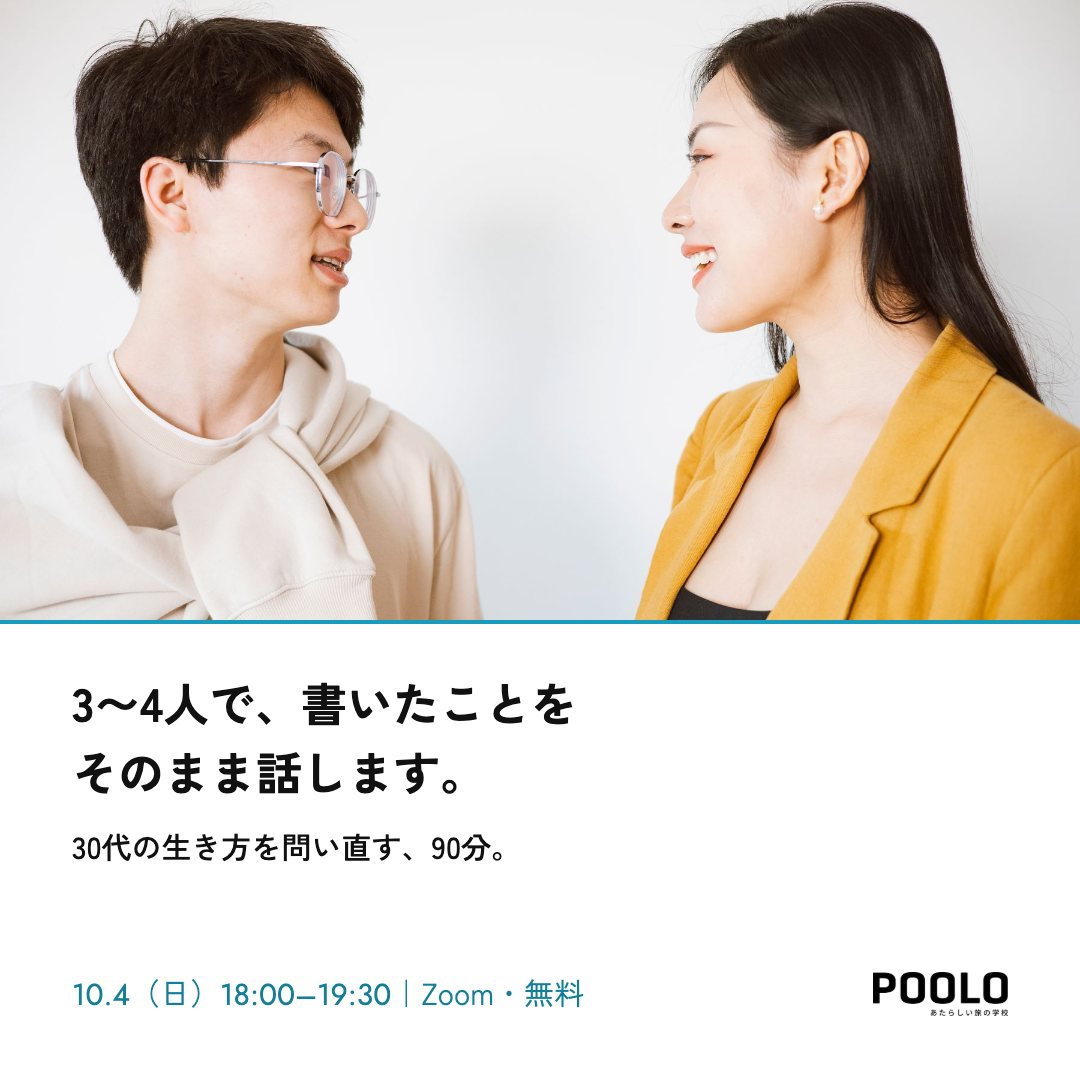
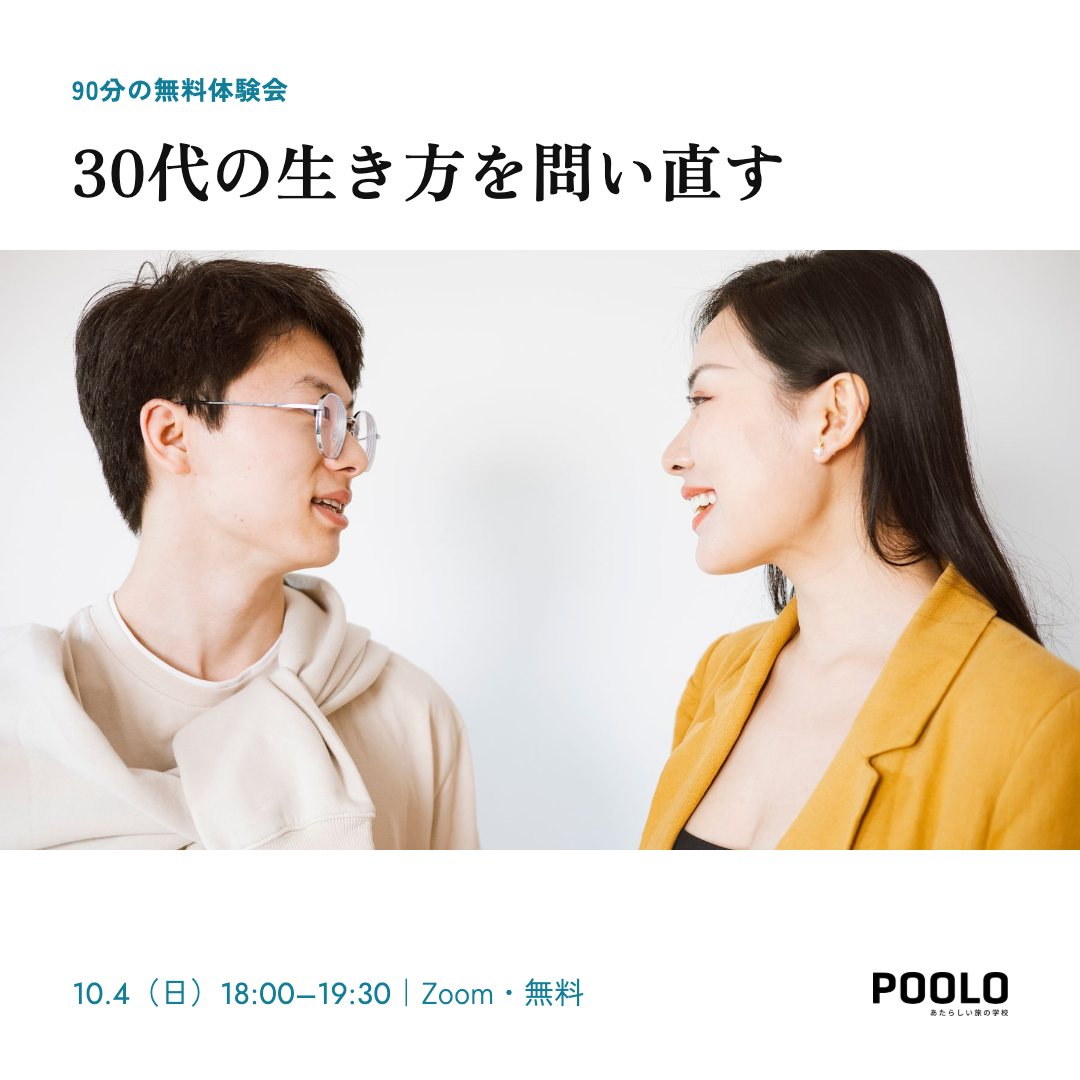
撮影ディレクション：コピーを統一し、組み方33パターンに

diff --git a/photo-direction-260928/index.html b/photo-direction-260928/index.html
@@ -37,13 +37,13 @@ th{width:11em;font-weight:700}
 @media (max-width:640px){.photos{grid-template-columns:1fr 1fr}.photos .ph:nth-child(3){display:none}.head{flex-wrap:wrap}.tag{margin-left:0}.credits ul{columns:2}}
 .mock{display:flex;flex-direction:column;gap:14px;margin-top:22px;padding:20px;background:#F3F8FA}.mimgs{display:grid;grid-template-columns:repeat(3,1fr);gap:10px}
 .mock img{width:100%;height:auto;display:block;border:1px solid #DCE5E8}
-.mock p{margin:0 0 8px;font-size:15px}.mock .mk{font-weight:700;color:#0F7590}
+.mock p{margin:0;font-size:15px}.mock .mk{font-weight:700;color:#0F7590}figure{margin:0}figure img{width:100%;height:auto;display:block;border:1px solid #DCE5E8}figcaption{font-size:13.5px;color:#56676E;margin-top:6px;line-height:1.5}
 @media (max-width:640px){.mimgs{grid-template-columns:1fr 1fr}}
 </style></head><body><div class="wrap">
 <p class="brand">POOLO by TABIPPO</p>
 <h1>体験会広告の写真撮影で、<br>撮ってほしいカット</h1>
 <p class="lead">今回の写真は、POOLOの体験会のMeta広告（Instagram・Facebook）に使います。正方形のフィードと、縦長のストーリーズの両方です。</p>
-<p class="lead">載せている写真は、どれも素材サイトから選んだイメージです。構図や距離感の参考にしてください。カットごとに、上の3枚の写真をそれぞれ使ったバナーの試作を3枚ずつ付けました。同じカットでも、写真の大きさや置き方を1枚ずつ変えています。コピーは30代の体験会のもので、日付と写真は仮です。</p>
+<p class="lead">載せている写真は、どれも素材サイトから選んだイメージです。構図や距離感の参考にしてください。カットごとに、上の3枚の写真をそれぞれ使ったバナーの試作を付けました。写真の大きさや置き方を1枚ずつ変えているので、同じ写真がどんな形の広告になるかを見比べてください。コピーは「30代の生き方を問い直す」にそろえ、日付と写真は仮です。</p>
 <div class="three">
 <div><b>イベントだと分かる</b><p>書く、話す、聞く。何をしている場なのかが写っていること。</p></div>
 <div><b>人が入っている</b><p>顔が見える距離で。30代向けの広告では、人の表情を出したものがいちばん反応がよかったです。</p></div>
@@ -61,39 +61,42 @@ th{width:11em;font-weight:700}
 <div class="head"><span class="num">1</span><div><h3>1人の表情</h3><p class="sub">話している途中の顔</p></div><span class="tag">段取りが必要</span></div>
 <p class="body">話している最中の顔を撮ります。笑顔を作ってもらうより、話しながら表情が動いた瞬間を狙います。無地の壁か窓の前に立ってもらい、頭の上か横に写真の1/3ほど余白を残してください。年代と性別を変えて5〜6人。</p>
 <div class="photos"><a class="ph" href="https://unsplash.com/photos/two-women-sitting-on-a-couch-playing-a-video-game-M6dNloG4jSU" target="_blank" rel="noopener"><img src="images/cut01-1.jpg" width="800" height="535" alt="話している途中の顔のイメージ"></a><a class="ph" href="https://unsplash.com/photos/man-using-earbuds-EMD33o0Ghy8" target="_blank" rel="noopener"><img src="images/cut01-2.jpg" width="800" height="533" alt="話している途中の顔のイメージ"></a><a class="ph" href="https://unsplash.com/photos/a-woman-looking-up-at-something-in-the-air-Czjq84pDm8o" target="_blank" rel="noopener"><img src="images/cut01-3.jpg" width="800" height="530" alt="話している途中の顔のイメージ"></a></div>
-<div class="mock"><div class="mimgs"><img src="images/banner-c1-1.jpg" width="1080" height="1080" alt="カット1のバナー試作1"><img src="images/banner-c1-2.jpg" width="1080" height="1080" alt="カット1のバナー試作2"><img src="images/banner-c1-3.jpg" width="1080" height="1080" alt="カット1のバナー試作3"></div><div><p class="mk">バナーにすると</p><p>写真を上の6割に置き、下の白地に明朝の一文を入れます。文字は写真に重ねません。そのため、写真の下のほうに顔がかからない構図がほしいです。</p><p class="ad">組み方の参考にした広告：<a href="https://www.facebook.com/ads/library/?id=830680203436028" target="_blank" rel="noopener">新居浜市 移住体験ツアー</a></p></div></div></section><section class="cut" id="cut2">
+<div class="mock"><p class="mk">バナーにすると</p><div class="mimgs"><figure><img src="images/banner-c1-1.jpg" width="1080" height="1080" alt="写真を上6割、文字は下"><figcaption>写真を上6割、文字は下</figcaption></figure><figure><img src="images/banner-c1-2.jpg" width="1080" height="1080" alt="写真の横に縦書き"><figcaption>写真の横に縦書き</figcaption></figure><figure><img src="images/banner-c1-3.jpg" width="1080" height="1080" alt="写真を大きく、文字は細い帯"><figcaption>写真を大きく、文字は細い帯</figcaption></figure></div><p class="ad">組み方の参考にした広告：<a href="https://www.facebook.com/ads/library/?id=830680203436028" target="_blank" rel="noopener">新居浜市 移住体験ツアー</a></p></div></section><section class="cut" id="cut2">
 <div class="head"><span class="num">2</span><div><h3>考えている表情</h3><p class="sub">手元から顔を上げた瞬間</p></div><span class="tag">本番中に撮れる</span></div>
 <p class="body">ワークシートに書いている途中で、ペンを持ったまま少し上を見る瞬間です。問いを見出しにした広告と組み合わせます。</p>
 <div class="photos"><a class="ph" href="https://www.pexels.com/photo/pensive-young-woman-with-netbook-5538324/" target="_blank" rel="noopener"><img src="images/cut02-1.jpg" width="800" height="527" alt="手元から顔を上げた瞬間のイメージ"></a><a class="ph" href="https://unsplash.com/photos/woman-wearing-white-stripe-sweater-bbbWXoP6BIo" target="_blank" rel="noopener"><img src="images/cut02-2.jpg" width="800" height="530" alt="手元から顔を上げた瞬間のイメージ"></a><a class="ph" href="https://www.pexels.com/photo/woman-in-white-long-sleeve-shirt-and-green-hat-writing-on-a-notebook-9200540/" target="_blank" rel="noopener"><img src="images/cut02-3.jpg" width="800" height="533" alt="手元から顔を上げた瞬間のイメージ"></a></div>
-<div class="mock"><div class="mimgs"><img src="images/banner-c2-1.jpg" width="1080" height="1080" alt="カット2のバナー試作1"><img src="images/banner-c2-2.jpg" width="1080" height="1080" alt="カット2のバナー試作2"><img src="images/banner-c2-3.jpg" width="1080" height="1080" alt="カット2のバナー試作3"></div><div><p class="mk">バナーにすると</p><p>左に写真、右の淡いブルーの面に当日のワークシートの問いを置きます。写真を縦に細く使うので、縦位置のカットが必要です。</p></div></div></section><section class="cut" id="cut3">
+<div class="mock"><p class="mk">バナーにすると</p><div class="mimgs"><figure><img src="images/banner-c2-1.jpg" width="1080" height="1080" alt="左に写真、右は淡いブルー"><figcaption>左に写真、右は淡いブルー</figcaption></figure><figure><img src="images/banner-c2-2.jpg" width="1080" height="1080" alt="丸窓の写真"><figcaption>丸窓の写真</figcaption></figure><figure><img src="images/banner-c2-3.jpg" width="1080" height="1080" alt="文字を大きく、写真は小さく"><figcaption>文字を大きく、写真は小さく</figcaption></figure></div></div></section><section class="cut" id="cut3">
 <div class="head"><span class="num">3</span><div><h3>2人の対話</h3><p class="sub">向かい合って話す2人</p></div><span class="tag">本番中に撮れる</span></div>
 <p class="body">2人を横から撮ります。話している人だけでなく、聞いている側の表情に寄ったカットもほしいです。体験会の「話す時間」を伝える写真になります。</p>
 <div class="photos"><a class="ph" href="https://www.pexels.com/photo/man-and-woman-having-a-conversation-8518732/" target="_blank" rel="noopener"><img src="images/cut03-1.jpg" width="800" height="533" alt="向かい合って話す2人のイメージ"></a><a class="ph" href="https://www.pexels.com/photo/woman-in-white-dress-shirt-beside-man-in-green-dress-shirt-4255383/" target="_blank" rel="noopener"><img src="images/cut03-2.jpg" width="800" height="533" alt="向かい合って話す2人のイメージ"></a><a class="ph" href="https://unsplash.com/photos/two-women-sitting-at-a-table-with-a-book-ixijtx21E7c" target="_blank" rel="noopener"><img src="images/cut03-3.jpg" width="800" height="533" alt="向かい合って話す2人のイメージ"></a></div>
-<div class="mock"><div class="mimgs"><img src="images/banner-c3-1.jpg" width="1080" height="1080" alt="カット3のバナー試作1"><img src="images/banner-c3-2.jpg" width="1080" height="1080" alt="カット3のバナー試作2"><img src="images/banner-c3-3.jpg" width="1080" height="1080" alt="カット3のバナー試作3"></div><div><p class="mk">バナーにすると</p><p>写真の下の白地に、「話す時間」の説明を入れます。2人の顔が上半分に収まっていると使いやすいです。</p><p class="ad">組み方の参考にした広告：<a href="https://www.facebook.com/ads/library/?id=1101421175720761" target="_blank" rel="noopener">秦野市 移住体験バスツアー</a></p></div></div></section><section class="cut" id="cut4">
+<div class="mock"><p class="mk">バナーにすると</p><div class="mimgs"><figure><img src="images/banner-c3-1.jpg" width="1080" height="1080" alt="写真を中央の帯に"><figcaption>写真を中央の帯に</figcaption></figure><figure><img src="images/banner-c3-2.jpg" width="1080" height="1080" alt="写真を右半分に"><figcaption>写真を右半分に</figcaption></figure><figure><img src="images/banner-c3-3.jpg" width="1080" height="1080" alt="対角に置く（文字左上・写真右下）"><figcaption>対角に置く（文字左上・写真右下）</figcaption></figure></div><p class="ad">組み方の参考にした広告：<a href="https://www.facebook.com/ads/library/?id=1101421175720761" target="_blank" rel="noopener">秦野市 移住体験バスツアー</a></p></div></section><section class="cut" id="cut4">
 <div class="head"><span class="num">4</span><div><h3>3〜4人の輪</h3><p class="sub">テーブルを囲んで話す</p></div><span class="tag">本番中に撮れる</span></div>
 <p class="body">少し高い位置から、机の上のワークシートやペンも入るように撮ります。1人は笑っているカットがあると使いやすいです。</p>
 <div class="photos"><a class="ph" href="https://unsplash.com/photos/woman-sitting-on-yellow-armless-chair-near-gray-laptop-computer-lp1AKIUV3yo" target="_blank" rel="noopener"><img src="images/cut04-1.jpg" width="800" height="600" alt="テーブルを囲んで話すのイメージ"></a><a class="ph" href="https://unsplash.com/photos/three-men-sitting-on-a-couch-talking-Z0dOXKgD2ek" target="_blank" rel="noopener"><img src="images/cut04-2.jpg" width="800" height="533" alt="テーブルを囲んで話すのイメージ"></a><a class="ph" href="https://unsplash.com/photos/people-sitting-on-sofa-and-floor-inside-room-5Wcv4joSriY" target="_blank" rel="noopener"><img src="images/cut04-3.jpg" width="800" height="533" alt="テーブルを囲んで話すのイメージ"></a></div>
-<div class="mock"><div class="mimgs"><img src="images/banner-c4-1.jpg" width="1080" height="1080" alt="カット4のバナー試作1"><img src="images/banner-c4-2.jpg" width="1080" height="1080" alt="カット4のバナー試作2"><img src="images/banner-c4-3.jpg" width="1080" height="1080" alt="カット4のバナー試作3"></div><div><p class="mk">バナーにすると</p><p>白い余白で写真を囲み、下に「書いて、話して、また書く。」を入れます。輪の全員の表情が見える高さから撮ってほしいカットです。</p><p class="ad">組み方の参考にした広告：<a href="https://www.facebook.com/ads/library/?id=1737129607349723" target="_blank" rel="noopener">MYSH 飯舘村の暮らし体験ツアー</a></p></div></div></section><section class="cut" id="cut5">
+<div class="mock"><p class="mk">バナーにすると</p><div class="mimgs"><figure><img src="images/banner-c4-1.jpg" width="1080" height="1080" alt="余白で囲む（上にブルーの罫）"><figcaption>余白で囲む（上にブルーの罫）</figcaption></figure><figure><img src="images/banner-c4-2.jpg" width="1080" height="1080" alt="文字が上、写真が下"><figcaption>文字が上、写真が下</figcaption></figure><figure><img src="images/banner-c4-3.jpg" width="1080" height="1080" alt="写真をブルーの細い線で囲む"><figcaption>写真をブルーの細い線で囲む</figcaption></figure></div><p class="ad">組み方の参考にした広告：<a href="https://www.facebook.com/ads/library/?id=1737129607349723" target="_blank" rel="noopener">MYSH 飯舘村の暮らし体験ツアー</a></p></div></section><section class="cut" id="cut5">
 <div class="head"><span class="num">5</span><div><h3>手元</h3><p class="sub">書く手、貼る手</p></div><span class="tag">本番中に撮れる</span></div>
 <p class="body">ワークシートに書く手、付箋を貼る手、ペンとノート。顔が写らないので同意の範囲が広く、どの回の広告にも使えます。いちばん多めに撮ってほしいカットです。</p>
 <div class="photos"><a class="ph" href="https://www.pexels.com/photo/student-writing-notes-with-colored-pens-37627847/" target="_blank" rel="noopener"><img src="images/cut05-1.jpg" width="800" height="533" alt="書く手、貼る手のイメージ"></a><a class="ph" href="https://unsplash.com/photos/a-person-writing-on-a-notepad-with-a-pen-FV-Jk0IAuhw" target="_blank" rel="noopener"><img src="images/cut05-2.jpg" width="800" height="533" alt="書く手、貼る手のイメージ"></a><a class="ph" href="https://unsplash.com/photos/person-writing-on-white-paper-Ax8IA8GAjVg" target="_blank" rel="noopener"><img src="images/cut05-3.jpg" width="800" height="542" alt="書く手、貼る手のイメージ"></a></div>
-<div class="mock"><div class="mimgs"><img src="images/banner-c5-1.jpg" width="1080" height="1080" alt="カット5のバナー試作1"><img src="images/banner-c5-2.jpg" width="1080" height="1080" alt="カット5のバナー試作2"><img src="images/banner-c5-3.jpg" width="1080" height="1080" alt="カット5のバナー試作3"></div><div><p class="mk">バナーにすると</p><p>手元の写真の下に、ワークシートの問いと罫線を入れます。顔が写らないので、どの回の広告にも使えます。</p><p class="ad">組み方の参考にした広告：<a href="https://www.facebook.com/ads/library/?id=1145083935161033" target="_blank" rel="noopener">ふくしま浜通り ブルー・ツーリズム</a></p></div></div></section><section class="cut" id="cut6">
+<div class="mock"><p class="mk">バナーにすると</p><div class="mimgs"><figure><img src="images/banner-c5-1.jpg" width="1080" height="1080" alt="小さな正方形の写真、余白多め"><figcaption>小さな正方形の写真、余白多め</figcaption></figure><figure><img src="images/banner-c5-2.jpg" width="1080" height="1080" alt="丸い写真を中央に"><figcaption>丸い写真を中央に</figcaption></figure><figure><img src="images/banner-c5-3.jpg" width="1080" height="1080" alt="写真の下にノートの罫線"><figcaption>写真の下にノートの罫線</figcaption></figure></div><p class="ad">組み方の参考にした広告：<a href="https://www.facebook.com/ads/library/?id=1145083935161033" target="_blank" rel="noopener">ふくしま浜通り ブルー・ツーリズム</a></p></div></section><section class="cut" id="cut6">
 <div class="head"><span class="num">6</span><div><h3>進行役と参加者</h3><p class="sub">話す人を、聞く人の肩越しに</p></div><span class="tag">本番中に撮れる</span></div>
 <p class="body">進行役が話している様子を、参加者の肩越しか斜め後ろから撮ります。講座や説明会の告知に使います。</p>
 <div class="photos"><a class="ph" href="https://www.pexels.com/photo/woman-during-lecture-15018788/" target="_blank" rel="noopener"><img src="images/cut06-1.jpg" width="800" height="640" alt="話す人を、聞く人の肩越しにのイメージ"></a><a class="ph" href="https://www.pexels.com/photo/man-in-beige-blazer-holding-tablet-computer-3184328/" target="_blank" rel="noopener"><img src="images/cut06-2.jpg" width="800" height="534" alt="話す人を、聞く人の肩越しにのイメージ"></a><a class="ph" href="https://unsplash.com/photos/adults-attending-workshop-in-sunlit-room-yCs7YTwEw2w" target="_blank" rel="noopener"><img src="images/cut06-3.jpg" width="800" height="534" alt="話す人を、聞く人の肩越しにのイメージ"></a></div>
-<div class="mock"><div class="mimgs"><img src="images/banner-c6-1.jpg" width="1080" height="1080" alt="カット6のバナー試作1"><img src="images/banner-c6-2.jpg" width="1080" height="1080" alt="カット6のバナー試作2"><img src="images/banner-c6-3.jpg" width="1080" height="1080" alt="カット6のバナー試作3"></div><div><p class="mk">バナーにすると</p><p>日付をいちばん大きく見せ、写真は下の帯に入れます。横長に切るので、左右に余白のある引きのカットが使いやすいです。</p><p class="ad">組み方の参考にした広告：<a href="https://www.facebook.com/ads/library/?id=2215767905643078" target="_blank" rel="noopener">issue+design「脱炭素まちづくりの始め方」</a></p></div></div></section><section class="cut" id="cut7">
+<div class="mock"><p class="mk">バナーにすると</p><div class="mimgs"><figure><img src="images/banner-c6-1.jpg" width="1080" height="1080" alt="日付を大きく、写真は下"><figcaption>日付を大きく、写真は下</figcaption></figure><figure><img src="images/banner-c6-2.jpg" width="1080" height="1080" alt="写真が上、日付は下"><figcaption>写真が上、日付は下</figcaption></figure><figure><img src="images/banner-c6-3.jpg" width="1080" height="1080" alt="写真を左、日付を右に縦に"><figcaption>写真を左、日付を右に縦に</figcaption></figure></div><p class="ad">組み方の参考にした広告：<a href="https://www.facebook.com/ads/library/?id=2215767905643078" target="_blank" rel="noopener">issue+design「脱炭素まちづくりの始め方」</a></p></div></section><section class="cut" id="cut7">
 <div class="head"><span class="num">7</span><div><h3>場の引き</h3><p class="sub">部屋全体</p></div><span class="tag">本番中に撮れる</span></div>
 <p class="body">人が入っている状態で、部屋全体を撮ります。何人くらいの場なのかが1枚で分かるようにしてください。</p>
 <div class="photos"><a class="ph" href="https://unsplash.com/photos/talking-people-sitting-beside-table-PTRzqc_h1r4" target="_blank" rel="noopener"><img src="images/cut07-1.jpg" width="800" height="450" alt="部屋全体のイメージ"></a><a class="ph" href="https://www.pexels.com/photo/art-class-in-tokyo-with-students-drawing-32616821/" target="_blank" rel="noopener"><img src="images/cut07-2.jpg" width="800" height="604" alt="部屋全体のイメージ"></a><a class="ph" href="https://unsplash.com/photos/group-meditating-in-a-bright-modern-room-b1D2DGMMv2k" target="_blank" rel="noopener"><img src="images/cut07-3.jpg" width="800" height="1200" alt="部屋全体のイメージ"></a></div>
-<div class="mock"><div class="mimgs"><img src="images/banner-c7-1.jpg" width="1080" height="1080" alt="カット7のバナー試作1"><img src="images/banner-c7-2.jpg" width="1080" height="1080" alt="カット7のバナー試作2"><img src="images/banner-c7-3.jpg" width="1080" height="1080" alt="カット7のバナー試作3"></div><div><p class="mk">バナーにすると</p><p>場の写真の下に、これまでの参加人数を添えます。人数の多さより、人が集まっている様子が伝わる写真がほしいです。</p><p class="ad">組み方の参考にした広告：<a href="https://www.facebook.com/ads/library/?id=2131822490837884" target="_blank" rel="noopener">アフリカスタディツアー2027 説明会</a></p></div></div></section><section class="cut" id="cut8">
+<div class="mock"><p class="mk">バナーにすると</p><div class="mimgs"><figure><img src="images/banner-c7-1.jpg" width="1080" height="1080" alt="横長の写真を中央に（映画の画面のように）"><figcaption>横長の写真を中央に（映画の画面のように）</figcaption></figure><figure><img src="images/banner-c7-2.jpg" width="1080" height="1080" alt="写真を全面近くまで、文字は1行"><figcaption>写真を全面近くまで、文字は1行</figcaption></figure><figure><img src="images/banner-c7-3.jpg" width="1080" height="1080" alt="縦長の写真と縦書き"><figcaption>縦長の写真と縦書き</figcaption></figure></div><p class="ad">組み方の参考にした広告：<a href="https://www.facebook.com/ads/library/?id=2131822490837884" target="_blank" rel="noopener">アフリカスタディツアー2027 説明会</a></p></div></section><section class="cut" id="cut8">
 <div class="head"><span class="num">8</span><div><h3>流れの3枚</h3><p class="sub">同じ人で、書く→話す→また書く</p></div><span class="tag">段取りが必要</span></div>
 <p class="body">同じ参加者を追って、書く・話す・また書くの3枚を続けて撮ります。広告で3コマ並べて、体験会の90分の流れを見せます。</p>
 <div class="photos"><a class="ph" href="https://www.pexels.com/photo/a-woman-holding-a-notebook-7120930/" target="_blank" rel="noopener"><img src="images/cut08-1.jpg" width="800" height="534" alt="同じ人で、書く→話す→また書くのイメージ"></a><a class="ph" href="https://www.pexels.com/photo/woman-in-white-knit-sweater-holding-notebook-and-pencil-7120928/" target="_blank" rel="noopener"><img src="images/cut08-2.jpg" width="800" height="534" alt="同じ人で、書く→話す→また書くのイメージ"></a><a class="ph" href="https://www.pexels.com/photo/woman-in-white-sweater-holding-notepad-7120923/" target="_blank" rel="noopener"><img src="images/cut08-3.jpg" width="800" height="1198" alt="同じ人で、書く→話す→また書くのイメージ"></a></div>
-<div class="mock"><div class="mimgs"><img src="images/banner-c8-1.jpg" width="1080" height="1080" alt="カット8のバナー試作1"><img src="images/banner-c8-2.jpg" width="1080" height="1080" alt="カット8のバナー試作2"><img src="images/banner-c8-3.jpg" width="1080" height="1080" alt="カット8のバナー試作3"></div><div><p class="mk">バナーにすると</p><p>同じ人の3枚を並べます。縦に並べる、横長に積む、1枚を大きくする、の3通りで組みました。3枚とも背景と距離をそろえて撮ってください。</p><p class="ad">組み方の参考にした広告：<a href="https://www.facebook.com/ads/library/?id=1421763089917996" target="_blank" rel="noopener">奈良 奥大和の体験ツアー</a></p></div></div></section><section class="cut" id="cut9">
+<div class="mock"><p class="mk">バナーにすると</p><div class="mimgs"><figure><img src="images/banner-c8-1.jpg" width="1080" height="1080" alt="3枚を縦に並べる"><figcaption>3枚を縦に並べる</figcaption></figure><figure><img src="images/banner-c8-2.jpg" width="1080" height="1080" alt="3枚を横長に積む"><figcaption>3枚を横長に積む</figcaption></figure><figure><img src="images/banner-c8-3.jpg" width="1080" height="1080" alt="1枚を大きく、2枚を小さく"><figcaption>1枚を大きく、2枚を小さく</figcaption></figure></div><p class="ad">組み方の参考にした広告：<a href="https://www.facebook.com/ads/library/?id=1421763089917996" target="_blank" rel="noopener">奈良 奥大和の体験ツアー</a></p></div></section><section class="cut" id="cut9">
 <div class="head"><span class="num">9</span><div><h3>地域の回</h3><p class="sub">歩く後ろ姿、景色の中で話す2人</p></div><span class="tag">地域の回のみ</span></div>
 <p class="body">東川・鞆の浦・琴平など、地域で開く回のためのカットです。歩く後ろ姿と、景色の中で話している2人を撮ります。</p>
 <div class="photos"><a class="ph" href="https://unsplash.com/photos/people-walking-on-dirt-road-near-trees-during-daytime-uqP4gz4v8Gw" target="_blank" rel="noopener"><img src="images/cut09-1.jpg" width="800" height="533" alt="歩く後ろ姿、景色の中で話す2人のイメージ"></a><a class="ph" href="https://www.pexels.com/photo/women-having-a-conversation-while-sitting-beside-a-lake-5542909/" target="_blank" rel="noopener"><img src="images/cut09-2.jpg" width="800" height="533" alt="歩く後ろ姿、景色の中で話す2人のイメージ"></a><a class="ph" href="https://www.pexels.com/photo/smiling-friends-talking-at-park-26633730/" target="_blank" rel="noopener"><img src="images/cut09-3.jpg" width="800" height="533" alt="歩く後ろ姿、景色の中で話す2人のイメージ"></a></div>
-<div class="mock"><div class="mimgs"><img src="images/banner-c9-1.jpg" width="1080" height="1080" alt="カット9のバナー試作1"><img src="images/banner-c9-2.jpg" width="1080" height="1080" alt="カット9のバナー試作2"><img src="images/banner-c9-3.jpg" width="1080" height="1080" alt="カット9のバナー試作3"></div><div><p class="mk">バナーにすると</p><p>地域の回のバナーです。景色と人の写真の下に、一文と日程を入れます。左から琴平・東川・鞆の浦の回で作りました。</p><p class="ad">組み方の参考にした広告：<a href="https://www.facebook.com/ads/library/?id=1558655219622016" target="_blank" rel="noopener">奥四万十 移住体験ツアー</a></p></div></div></section>
+<div class="mock"><p class="mk">バナーにすると</p><div class="mimgs"><figure><img src="images/banner-c9-1.jpg" width="1080" height="1080" alt="写真を上、地名と日程を下"><figcaption>写真を上、地名と日程を下</figcaption></figure><figure><img src="images/banner-c9-2.jpg" width="1080" height="1080" alt="写真を右、縦書きを左"><figcaption>写真を右、縦書きを左</figcaption></figure><figure><img src="images/banner-c9-3.jpg" width="1080" height="1080" alt="余白で囲み、地名を添える"><figcaption>余白で囲み、地名を添える</figcaption></figure></div><p class="ad">組み方の参考にした広告：<a href="https://www.facebook.com/ads/library/?id=1558655219622016" target="_blank" rel="noopener">奥四万十 移住体験ツアー</a></p></div></section>
+<h2>写真を組み合わせるパターン</h2>
+<p class="body">撮ったカットを何枚か並べる組み方です。1人の表情・2人の対話・手元など、種類の違うカットがそろっていると作れます。</p>
+<div class="mock"><div class="mimgs"><figure><img src="images/banner-cX-1.jpg" width="1080" height="1080" alt="4枚のグリッド"><figcaption>4枚のグリッド</figcaption></figure><figure><img src="images/banner-cX-2.jpg" width="1080" height="1080" alt="6枚のタイル（1枚だけカラー）"><figcaption>6枚のタイル（1枚だけカラー）</figcaption></figure><figure><img src="images/banner-cX-3.jpg" width="1080" height="1080" alt="2枚を左右に（顔と手元）"><figcaption>2枚を左右に（顔と手元）</figcaption></figure><figure><img src="images/banner-cX-4.jpg" width="1080" height="1080" alt="4枚を横一列のフィルムのように"><figcaption>4枚を横一列のフィルムのように</figcaption></figure><figure><img src="images/banner-cX-5.jpg" width="1080" height="1080" alt="大きな1枚＋小さな3枚"><figcaption>大きな1枚＋小さな3枚</figcaption></figure><figure><img src="images/banner-cX-6.jpg" width="1080" height="1080" alt="写真を丸く3つ並べる"><figcaption>写真を丸く3つ並べる</figcaption></figure></div></div>
 <h2>撮影の前に決めておくこと</h2>
 <table>
 <tr><th>広告に使う同意</th><td>写る参加者から、広告に使ってよいか同意をもらいます。顔が大きく写るカット（1・2・8）は、その人に事前にお願いしておきます。</td></tr>
